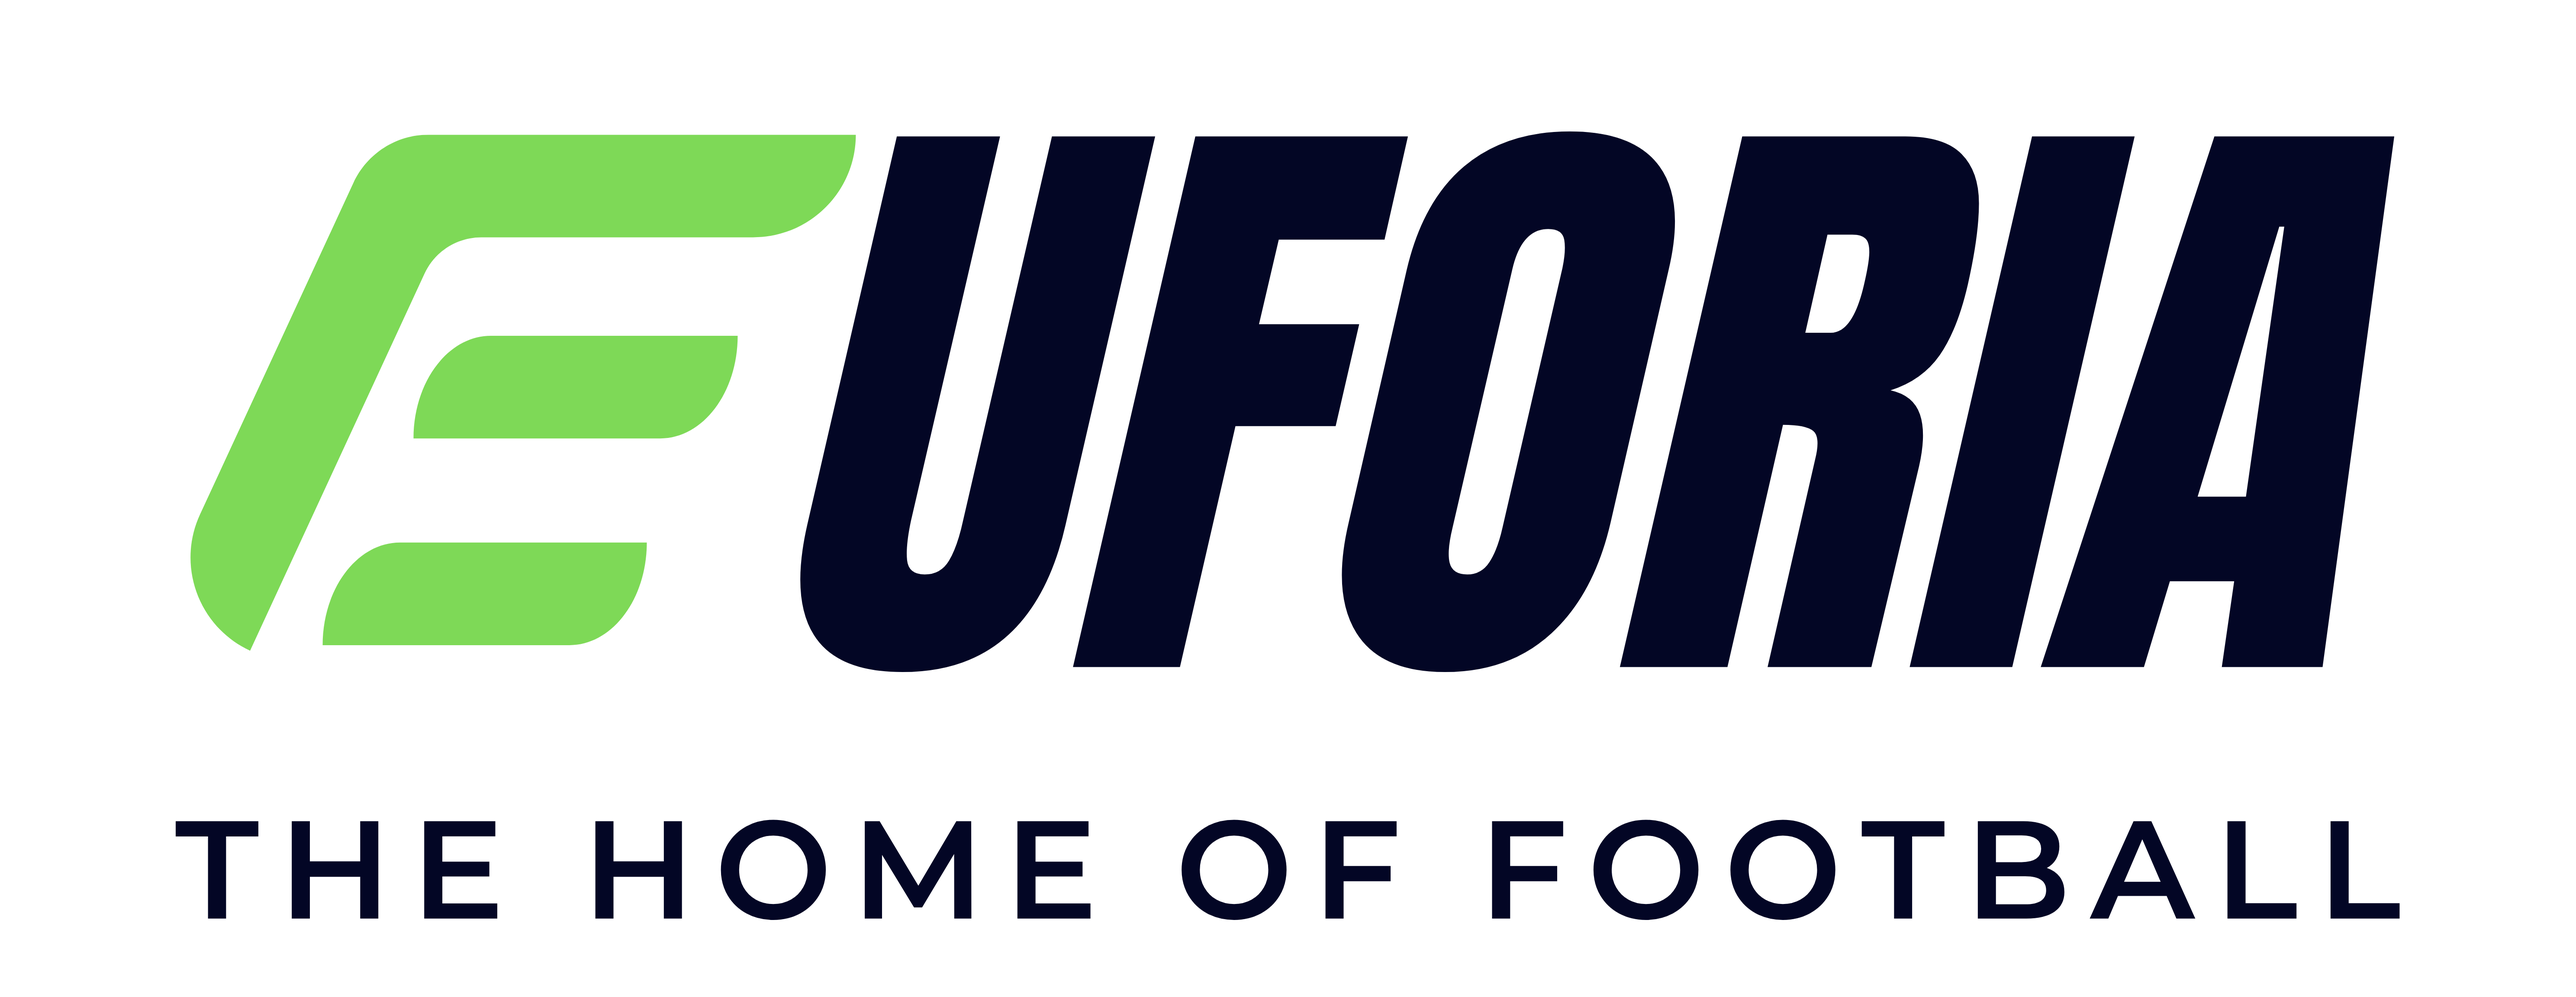
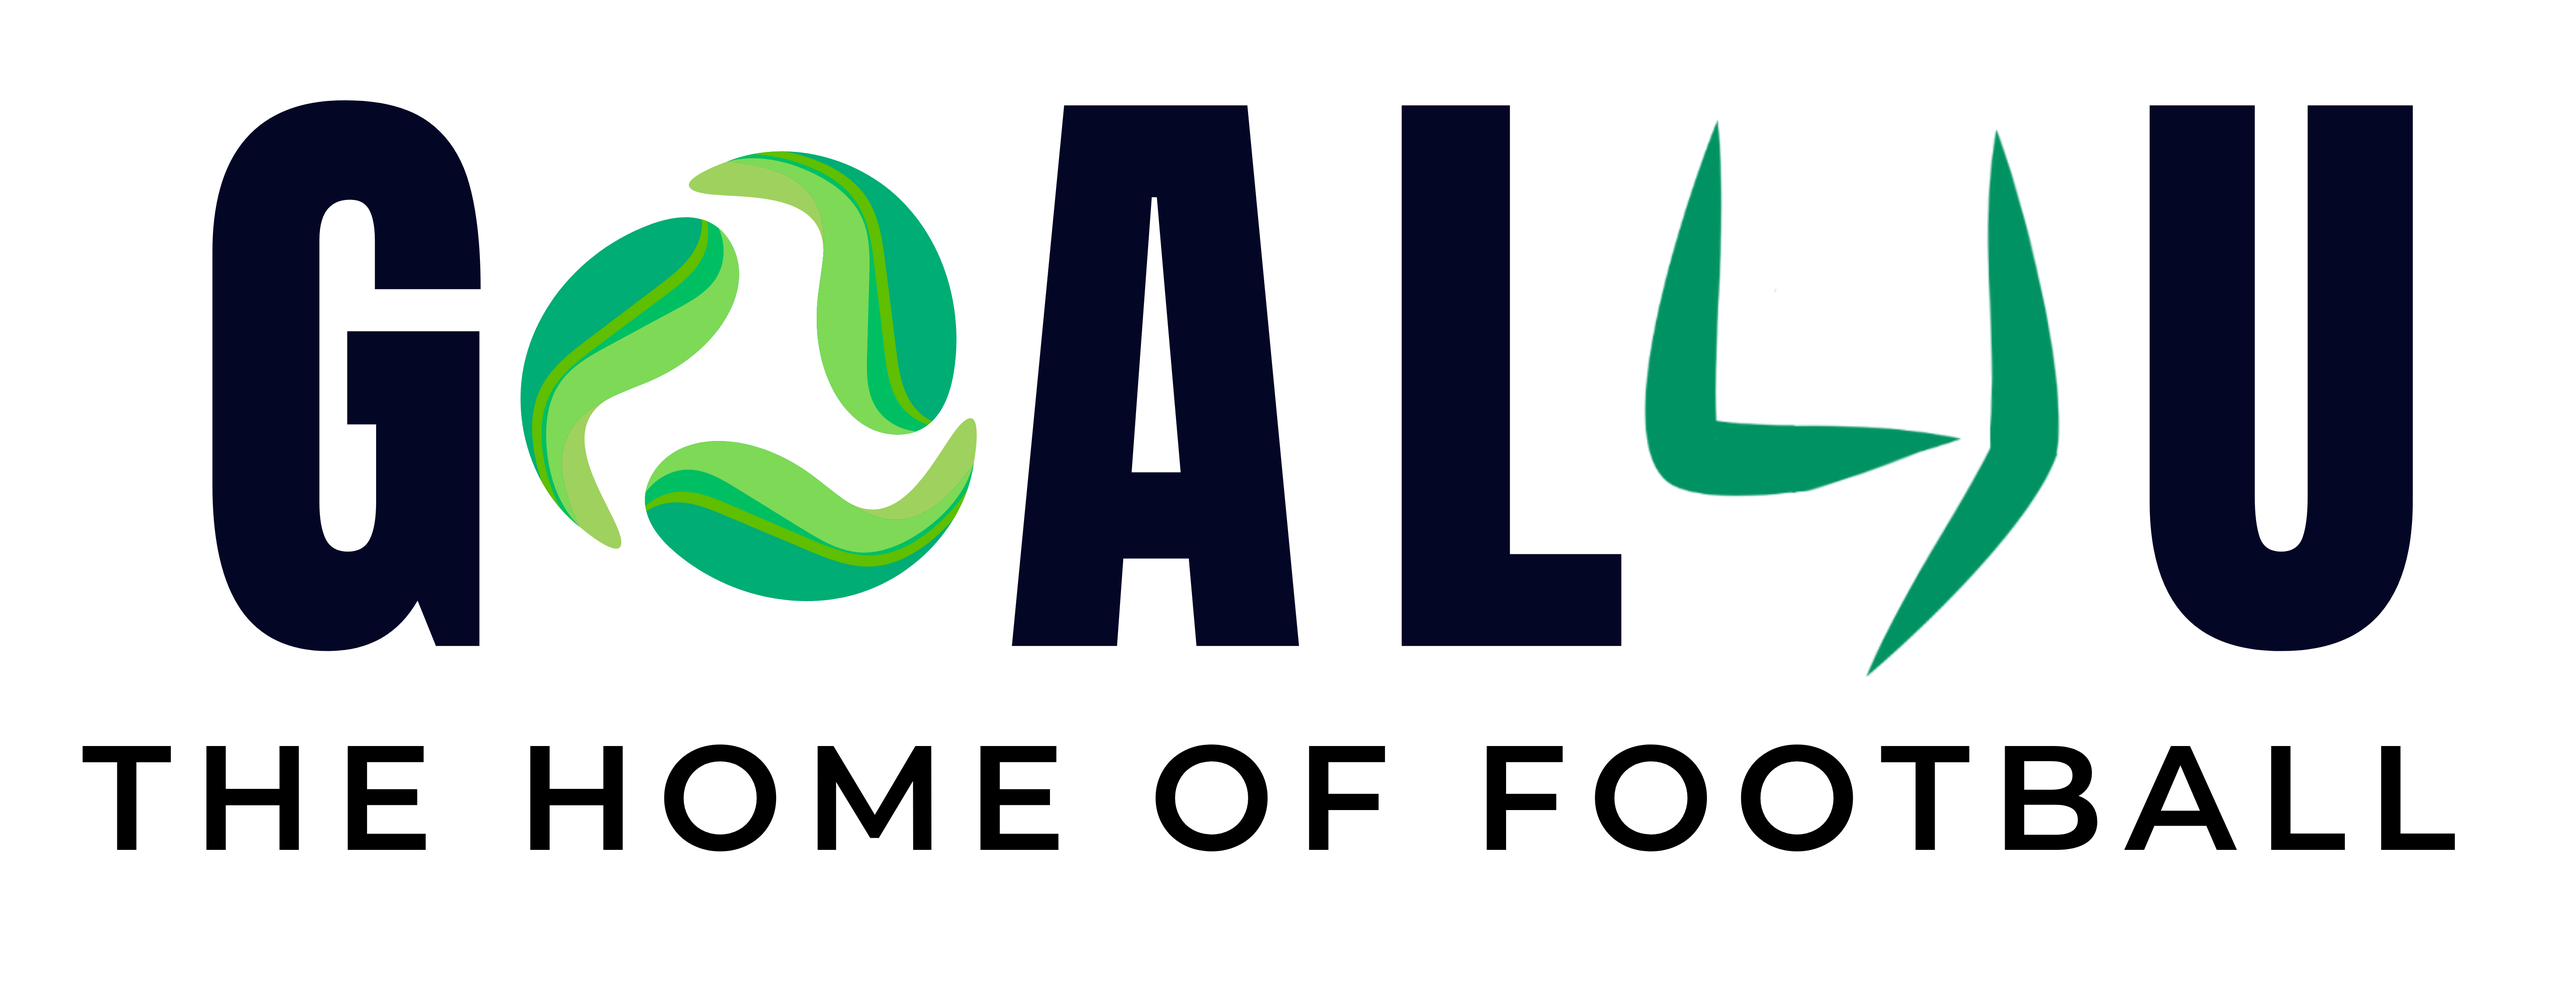
mobile update

diff --git a/src/components/About.jsx b/src/components/About.jsx
@@ -11,13 +11,13 @@ const About = () => {
         {/* Hero Title */}
         <div className="text-center mb-5">
           <h2 className="display-4 font-weight-bold">
-            Welcome to <span style={{ color: "#00d084" }}>EUFORIA</span>
+            Welcome to <span style={{ color: "#00d084" }}>GOAL4U</span>
           </h2>
           <p className="h6 text-success font-weight-bold">
-            European Union Football Organization for Real-time Information & Analytics
+            Global Online Access League for Unlimited Football Updates
           </p>
           <p className="text-muted mx-auto mt-3" style={{ maxWidth: "700px" }}>
-            Your all-in-one platform for European football — bringing fans, teams, and data together in real time.
+            Your all-in-one platform for global football — bringing fans, teams, and data together in real time.
           </p>
         </div>
 
@@ -58,7 +58,7 @@ const About = () => {
                 <div className="card-body">
                   <h5 className="card-title text-success">UEFA Champions League 2024–2025</h5>
                   <p className="card-text text-muted">
-                    The road to Berlin begins here. Follow every twist and turn of Europe’s elite tournament with EUFORIA — complete with real-time updates, group breakdowns, top scorers, and knockout drama as it unfolds.
+                    The road to Berlin begins here. Follow every twist and turn of Europe’s elite tournament with GOAL4U — complete with real-time updates, group breakdowns, top scorers, and knockout drama as it unfolds.
                   </p>
                 </div>
               </div>
@@ -71,7 +71,7 @@ const About = () => {
                 <div className="card-body">
                   <h5 className="card-title text-success">24/7 League Coverage</h5>
                   <p className="card-text text-muted">
-                    From La Liga's flair to Premier League intensity — EUFORIA runs a dedicated multi-server infrastructure ensuring uninterrupted coverage and data flow from all major and minor European leagues. Always on. Always live.
+                    From La Liga's flair to Premier League intensity — GOAL4U runs a dedicated multi-server infrastructure ensuring uninterrupted coverage and data flow from all major and minor European leagues. Always on. Always live.
                   </p>
                 </div>
               </div>
@@ -84,7 +84,7 @@ const About = () => {
                 <div className="card-body">
                   <h5 className="card-title text-success">Legends of the Game</h5>
                   <p className="card-text text-muted">
-                    Two names, one legacy — Messi and Ronaldo. EUFORIA celebrates their legendary careers with stat comparisons, record charts, and unforgettable highlights that define football’s golden generation.
+                    Two names, one legacy — Messi and Ronaldo. GOAL4U celebrates their legendary careers with stat comparisons, record charts, and unforgettable highlights that define football’s golden generation.
                   </p>
                 </div>
               </div>
@@ -118,15 +118,15 @@ const About = () => {
         <div className="text-center mb-5">
           <h3 className="font-weight-bold mb-3">Our Mission</h3>
           <p className="text-muted mx-auto" style={{ maxWidth: "800px", lineHeight: "1.8" }}>
-            EUFORIA exists to unify football fans across Europe. We aim to deliver reliable data, authentic stories, and rich multimedia experiences — all accessible in one place. Whether you're in Lisbon, Berlin, or Helsinki, the beautiful game belongs to you.
+            GOAL4U exists to unify football fans across the world. We aim to deliver reliable data, authentic stories, and rich multimedia experiences — all accessible in one place. Whether you're in Lisbon, Berlin, or Hyderabad, the beautiful game belongs to you.
           </p>
         </div>
 
         {/* Call to Action */}
         <div className="text-center bg-light p-5 rounded shadow-sm">
-          <h4 className="font-weight-bold mb-3">Join the EUFORIA Movement</h4>
+          <h4 className="font-weight-bold mb-3">Join the GOAL4U Community</h4>
           <p className="text-muted mb-4">
-            Explore matchday insights, follow your icons, and relive history. Stay in the game — stay in EUFORIA.
+            Explore matchday insights, follow your icons, and relive history. Stay in the game — stay with GOAL4U.
           </p>
           <a href="/signup" className="btn btn-success px-4 py-2">Get Started</a>
         </div>

diff --git a/index.html b/index.html
@@ -3,12 +3,12 @@
   <head>
     <meta charset="UTF-8" />
     <meta name="viewport" content="width=device-width, initial-scale=1.0" />
-    <title>EUFORIA - THE HOME OF FOOTBALL</title>
+    <title>GOAL4U - THE HOME OF FOOTBALL</title>
 
     <!-- SEO -->
-    <meta name="keywords" content="EUFORIA" />
-    <meta name="description" content="EUFORIA - THE HOME OF FOOTBALL" />
-    <meta name="author" content="euforia.netlify.app" />
+    <meta name="keywords" content="GOAL4U" />
+    <meta name="description" content="GOAL4U - THE HOME OF FOOTBALL" />
+    <meta name="author" content="goal4u.netlify.app" />
 
     <!-- Favicon -->
     <link rel="icon" type="image/png" href="/assets/img/fav1.png" />

diff --git a/src/services/fixture.ts b/src/services/fixture.ts
@@ -1,6 +1,6 @@
 import axios from 'axios';
 
-const API_KEY = 'aa895963895f481f8805a4f7f2f70c49';
+const API_KEY = import.meta.env.VITE_SPORTS_API_KEY;
 const BASE_URL = 'https://api.sportsdata.io/v4/soccer/scores/json';
 
 const PREFERRED_COMPETITIONS = ['EPL', 'ESP', 'ITSA', 'DEB', 'FRL1', 'CWC', 'UCL'];

diff --git a/src/components/Footer.jsx b/src/components/Footer.jsx
@@ -8,7 +8,7 @@ const Footer = () => {
         {/* Logo Footer */}
         <div className="col-lg-12">
           <div className="logo-footer">
-            <h2>EUFORIA</h2>
+            <h2>GOAL4U </h2>
             <a>THE HOME OF FOOTBALL</a>
           </div>
         </div>
